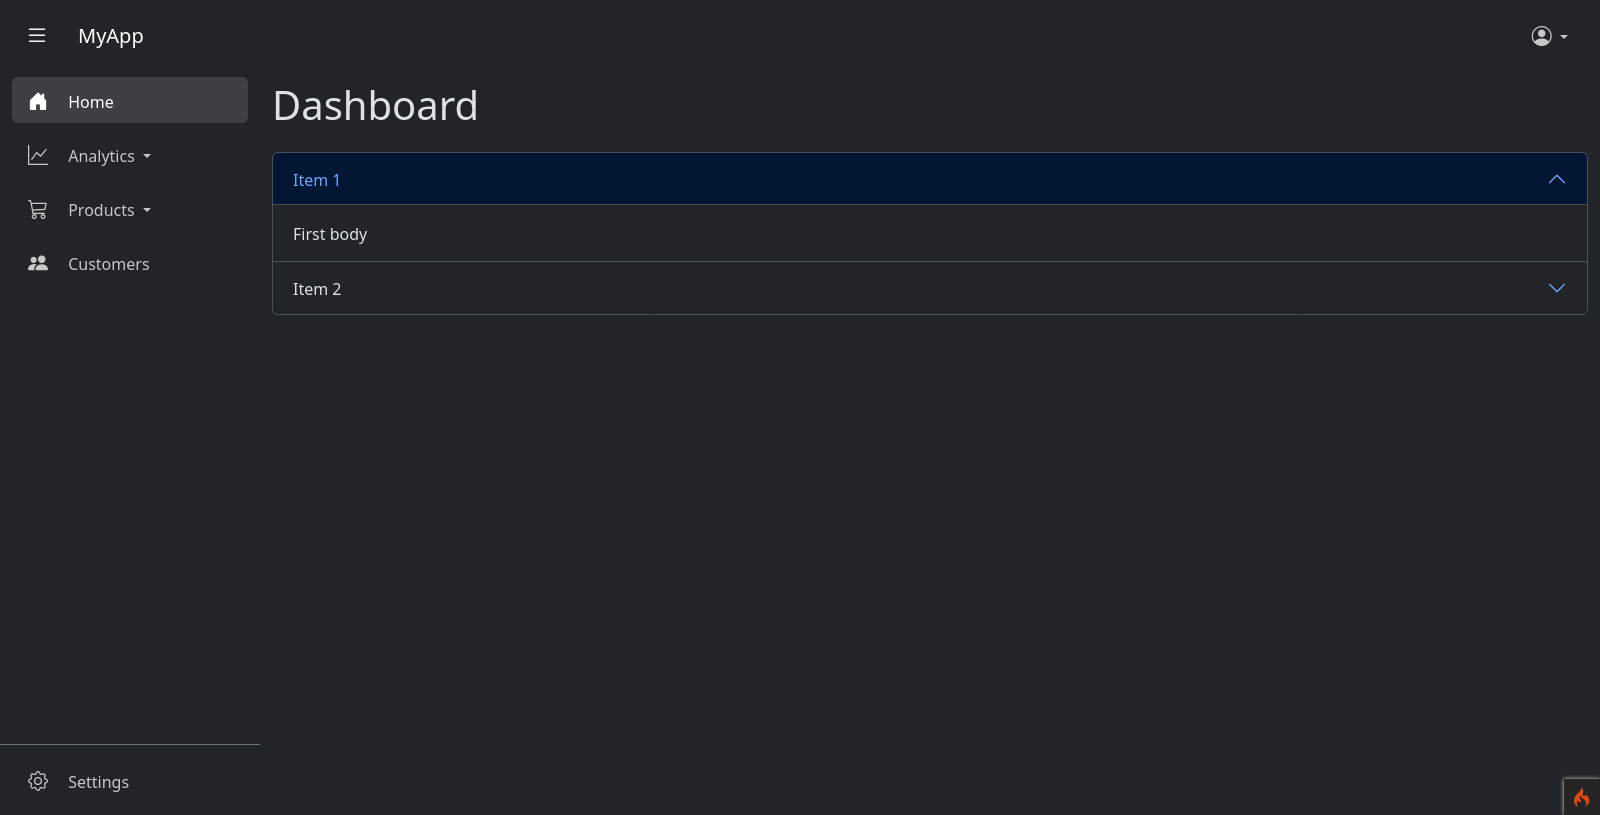
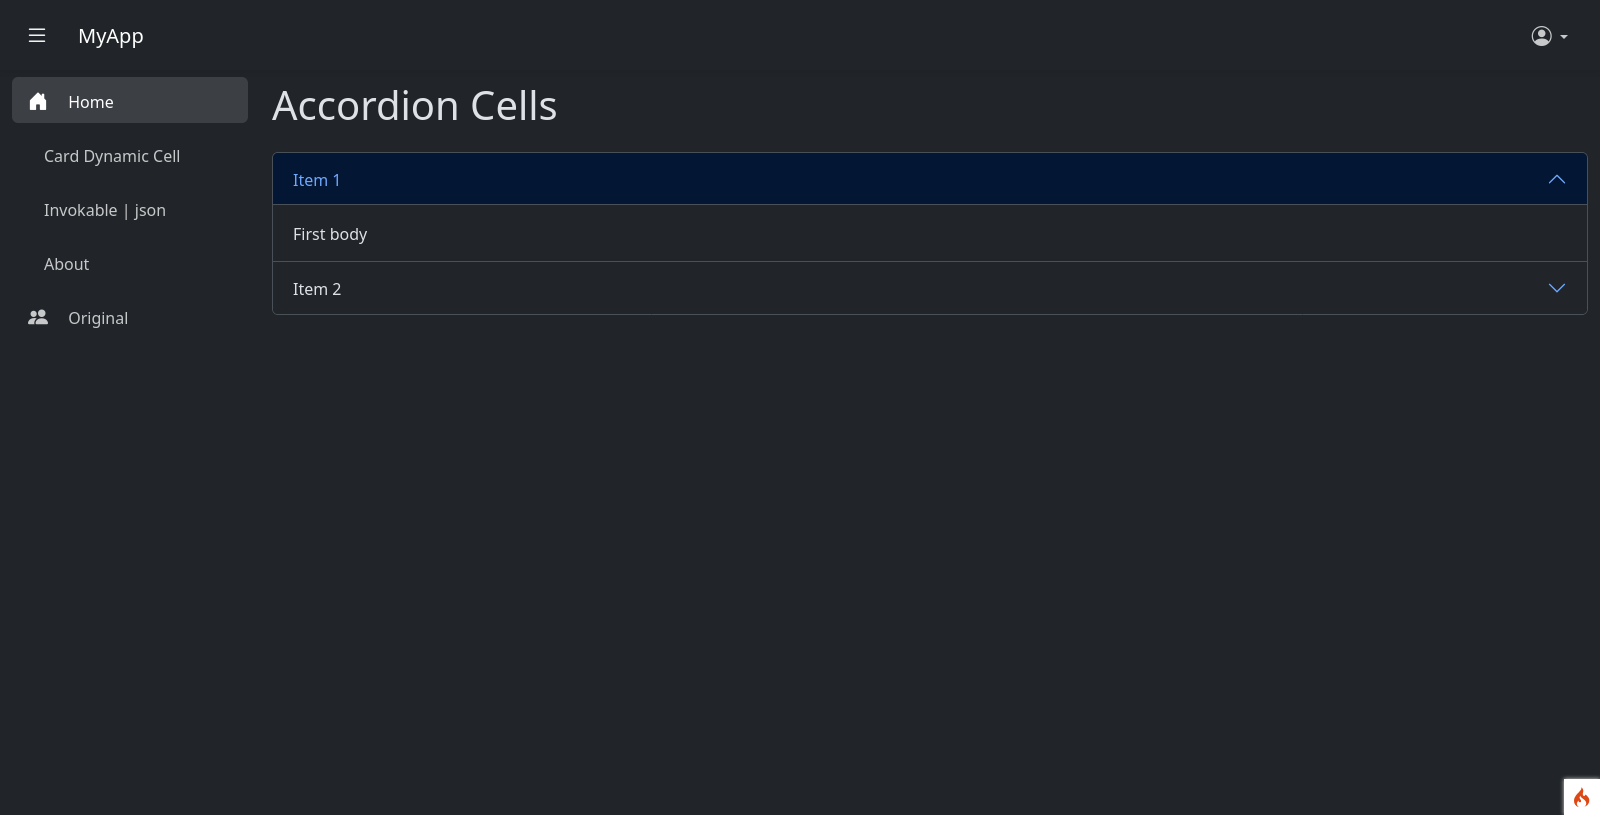
README: updated with indication of new features

diff --git a/README.md b/README.md
@@ -30,11 +30,30 @@ in _config exists:
 - defined some cli command in `composer.json` to generate ci `controllers`, `models` and `filters`
 
 
+## New 24/01/2026
+
+-  change Routes > `index` >> Routes > `web`
+
+- Change Config > routes, removed default namespace and class
+
+- Change Config > routes, change default method to `__invoke`
+
+- previous two change:
+
+    - allow call controller as single action
+    - prevent use only simple string to define controll + method
+    - similar to laravel, only as to indicate the controller:
+
+         ```[MyClass:class, 'method']```
+         
+         `MyClass::class` (single action)
+
+- Shows beter ways to use Cell views with `dynamic` body
+
 ## image
 
 pages
 ![simple layout](image.png)
-
 
 custom scripts in `composer.json`:
 
